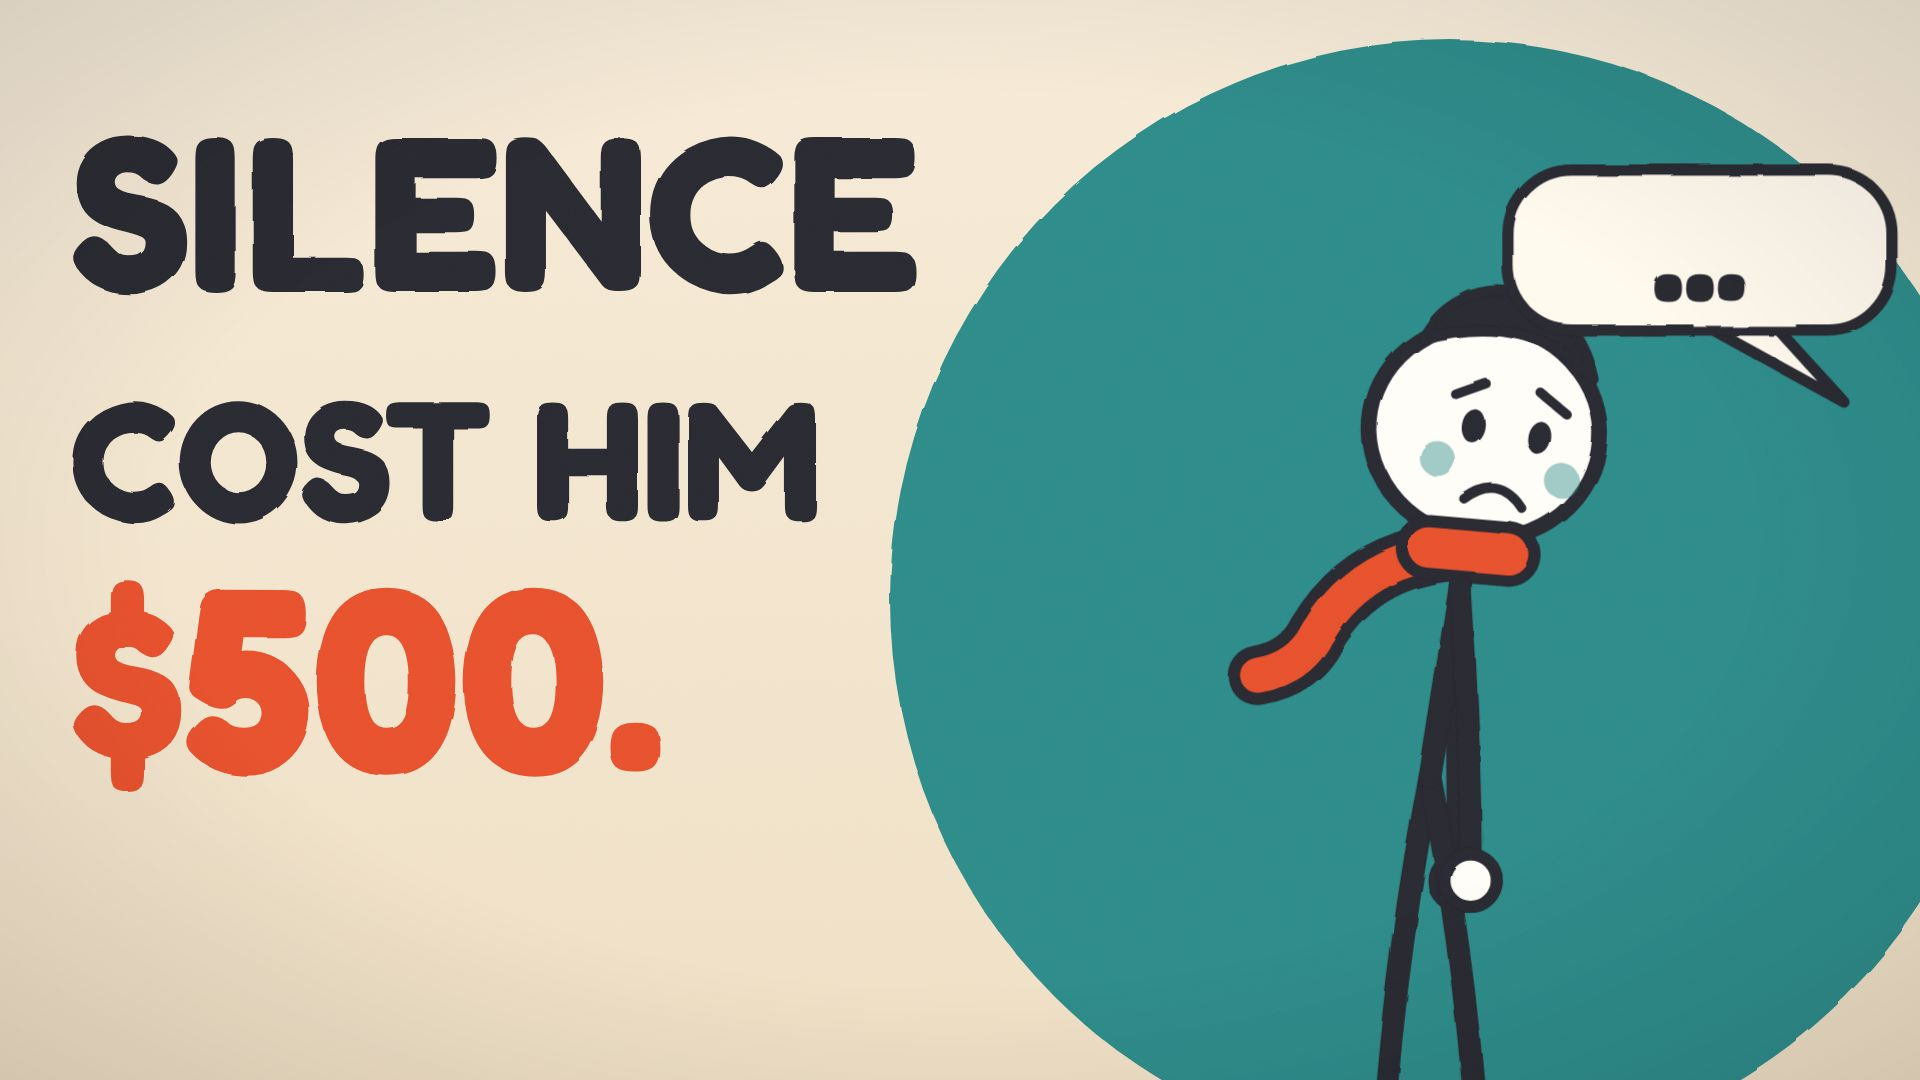
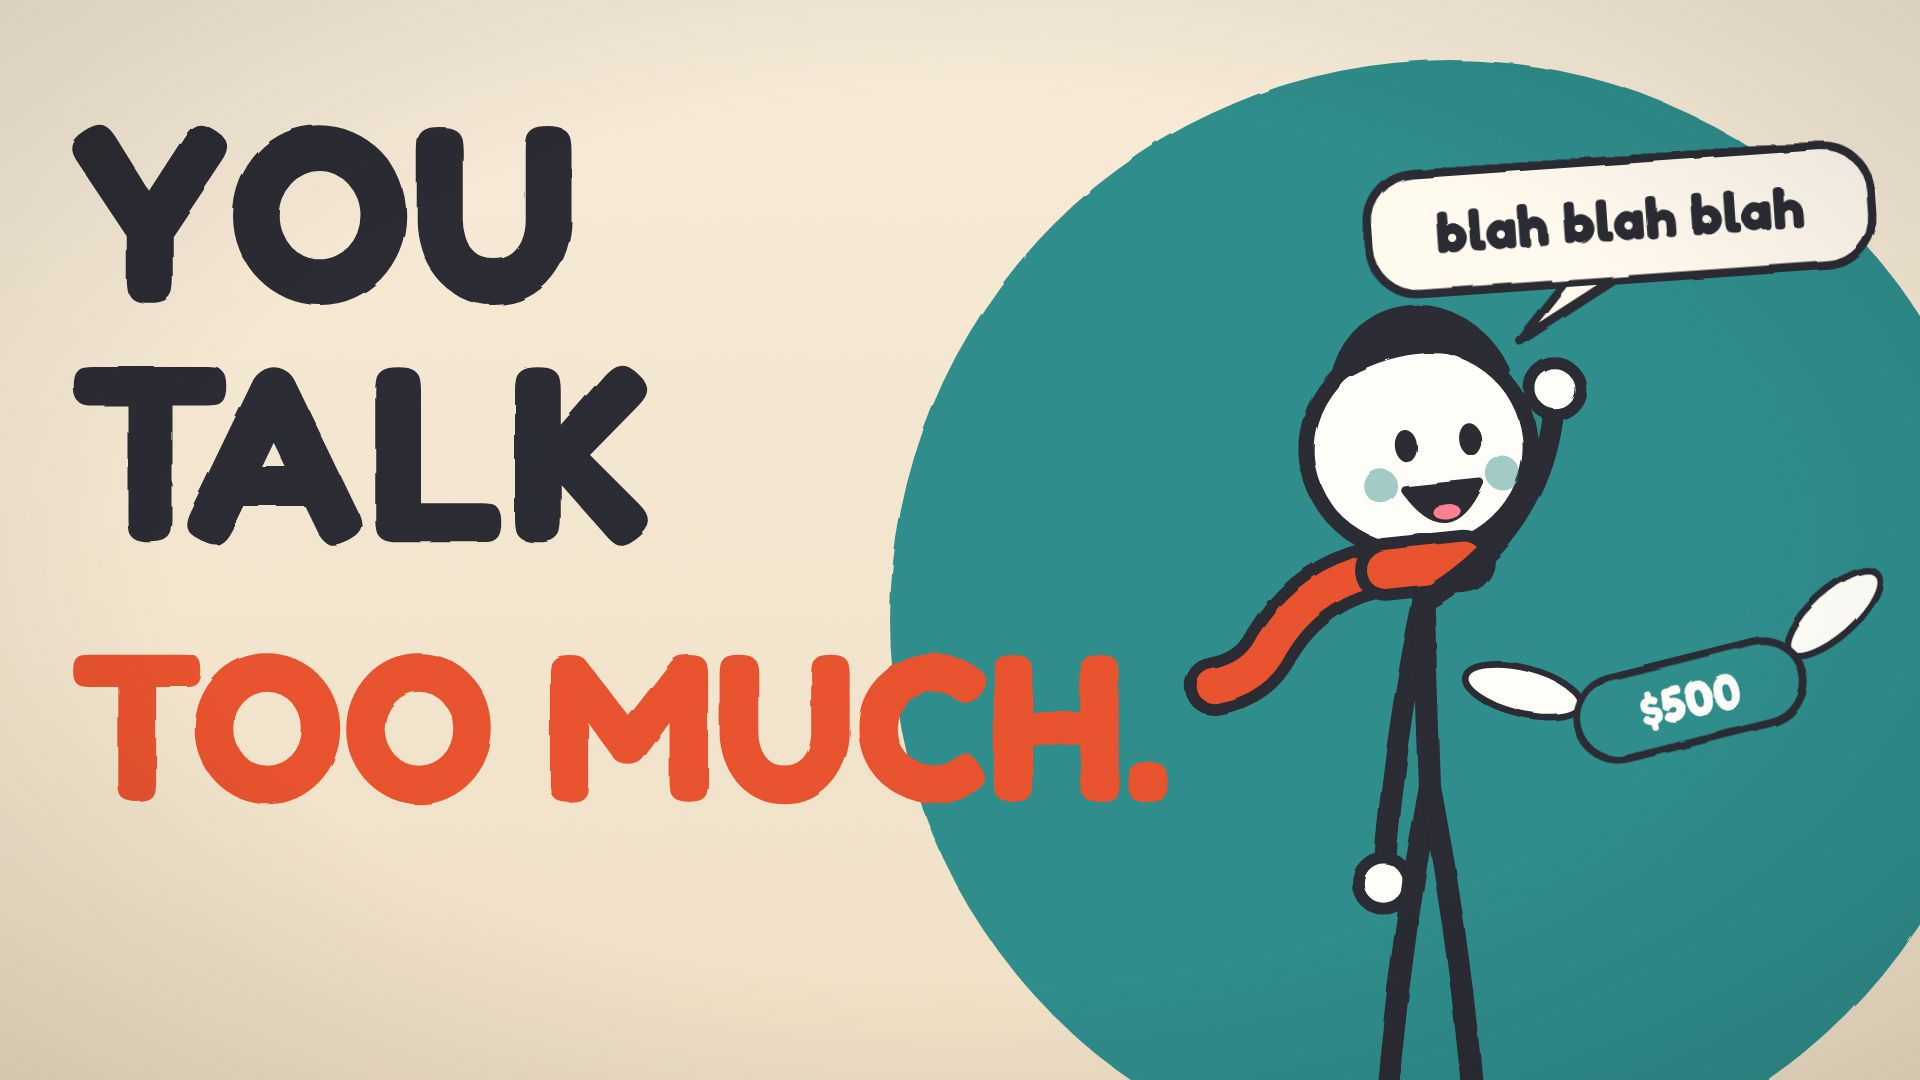
Video 5: viewer-first thumbnail; thumbnail rule in CLAUDE.md
Claude-Session: https://claude.ai/code/session_01CykSXQo8YSBWY4SXNyJiEp

diff --git a/src/videos/v05/Thumbnail.tsx b/src/videos/v05/Thumbnail.tsx
@@ -4,29 +4,33 @@ import { Stage } from "../../kit/Stage";
 import { Stickman, poses } from "../../Stickman";
 import { Bubble, T } from "./shared";
 
+// Speaks to the viewer: you talk too much, and it costs you money.
 export const V05Thumb: React.FC = () => (
   <Stage
     theme={T}
     back={
       <>
         <rect x={-60} y={-60} width={2040} height={1200} fill="url(#wall)" />
-        <circle cx={1450} cy={600} r={560} fill={T.accent2} />
+        <circle cx={1450} cy={620} r={560} fill={T.accent2} />
       </>
     }
     front={
       <>
-        <K.Txt x={70} y={290} size={220} weight={700} fill={T.line} anchor="start">
-          SILENCE
+        <K.Txt x={70} y={300} size={250} weight={700} fill={T.line} anchor="start">
+          YOU
         </K.Txt>
-        <K.Txt x={70} y={520} size={170} weight={700} fill={T.line} anchor="start">
-          COST HIM
+        <K.Txt x={70} y={540} size={250} weight={700} fill={T.line} anchor="start">
+          TALK
         </K.Txt>
-        <K.Txt x={70} y={770} size={260} weight={700} fill={T.accent} anchor="start">
-          $500.
+        <K.Txt x={70} y={800} size={210} weight={700} fill={T.accent} anchor="start">
+          TOO MUCH.
         </K.Txt>
-        <Stickman theme={T} outfit="scarf" x={1430} floorY={1160} scale={1.75} pose={{ ...poses.slump, headTilt: 10 }} expression="sad" />
-        <K.At x={1700} y={250} s={1.6}>
-          <Bubble text="..." w={240} size={90} flip />
+        <Stickman theme={T} outfit="scarf" x={1430} floorY={1160} scale={1.7} pose={{ ...poses.wave, headTilt: -6 }} expression="open" />
+        <K.At x={1620} y={220} s={1.2} r={-4}>
+          <Bubble text="blah blah blah" w={420} size={48} />
+        </K.At>
+        <K.At x={1690} y={700} s={0.95} r={-14}>
+          <K.WingedMoney t={T} flap={10} text="$500" />
         </K.At>
       </>
     }

diff --git a/CLAUDE.md b/CLAUDE.md
@@ -44,6 +44,6 @@ Books the owner has read: Psychology of Money, Atomic Habits, Rich Dad Poor Dad,
 - Video 4 "How to Make an Offer People Feel Stupid Refusing" (topic 19, $100M Offers): audio approved (5:32), scenes in `src/videos/v04/`, thumbnail and `upload/youtube.md` written. Render: `scripts/render-chunks.sh V04 public/v04/narration.mp3 out/video4.mp4 10222`. Upload 2026-12-07.
 - Upload plan: video 2 up 2026-11-23, video 3 on 2026-11-30, video 4 on 2026-12-07.
 - Video 5 "Why the Smartest Person in the Room Stays Quiet" (topic 22, 48 Laws): audio approved (4:24), scenes in `src/videos/v05/`, thumbnail and `upload/youtube.md` written. Render: `scripts/render-chunks.sh V05 public/v05/narration.mp3 out/video5.mp4 8199`. Upload 2026-12-14.
-- Thumbnail rule (from video 2 CTR 2.3%): one contradiction or number, 3-4 big words, Pip always in it. 62% of watch time is on TV.
+- THUMBNAIL RULE (owner, strict): the viewer is selfish; the thumbnail must be about THEIR life, not Pip's story. Speak to them ("YOU..."), name their problem or mistake in 3-4 huge words (e.g. "YOU TALK TOO MUCH.", "YOU SAID YES. YOU MEANT NO."). Pip always in it, acting it out. One idea, no story recap. 62% of watch time is on TV, so text must be huge. Video 2 CTR was 2.3%.
 - Shorts: 3 per video in `videos/NN-slug/upload/shorts.md`, cut with `scripts/make-short.sh` (titles must avoid ' and :).
 - Next: video 6 is a new topic from the list (owner to pick or take the next unused one).
